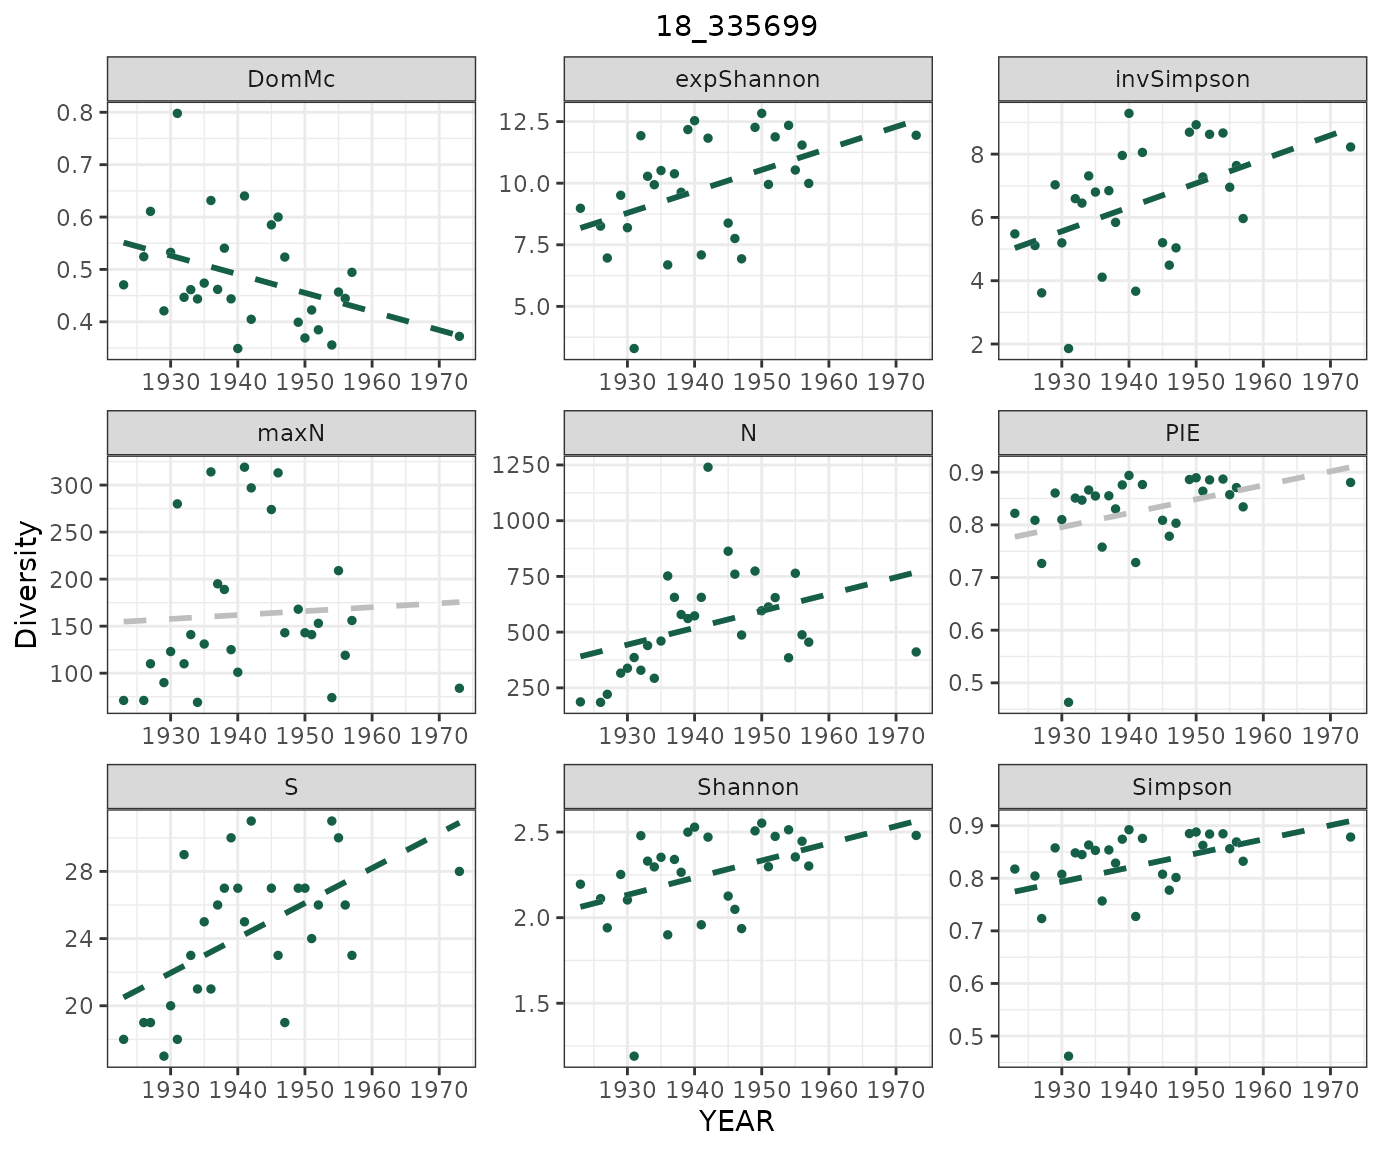
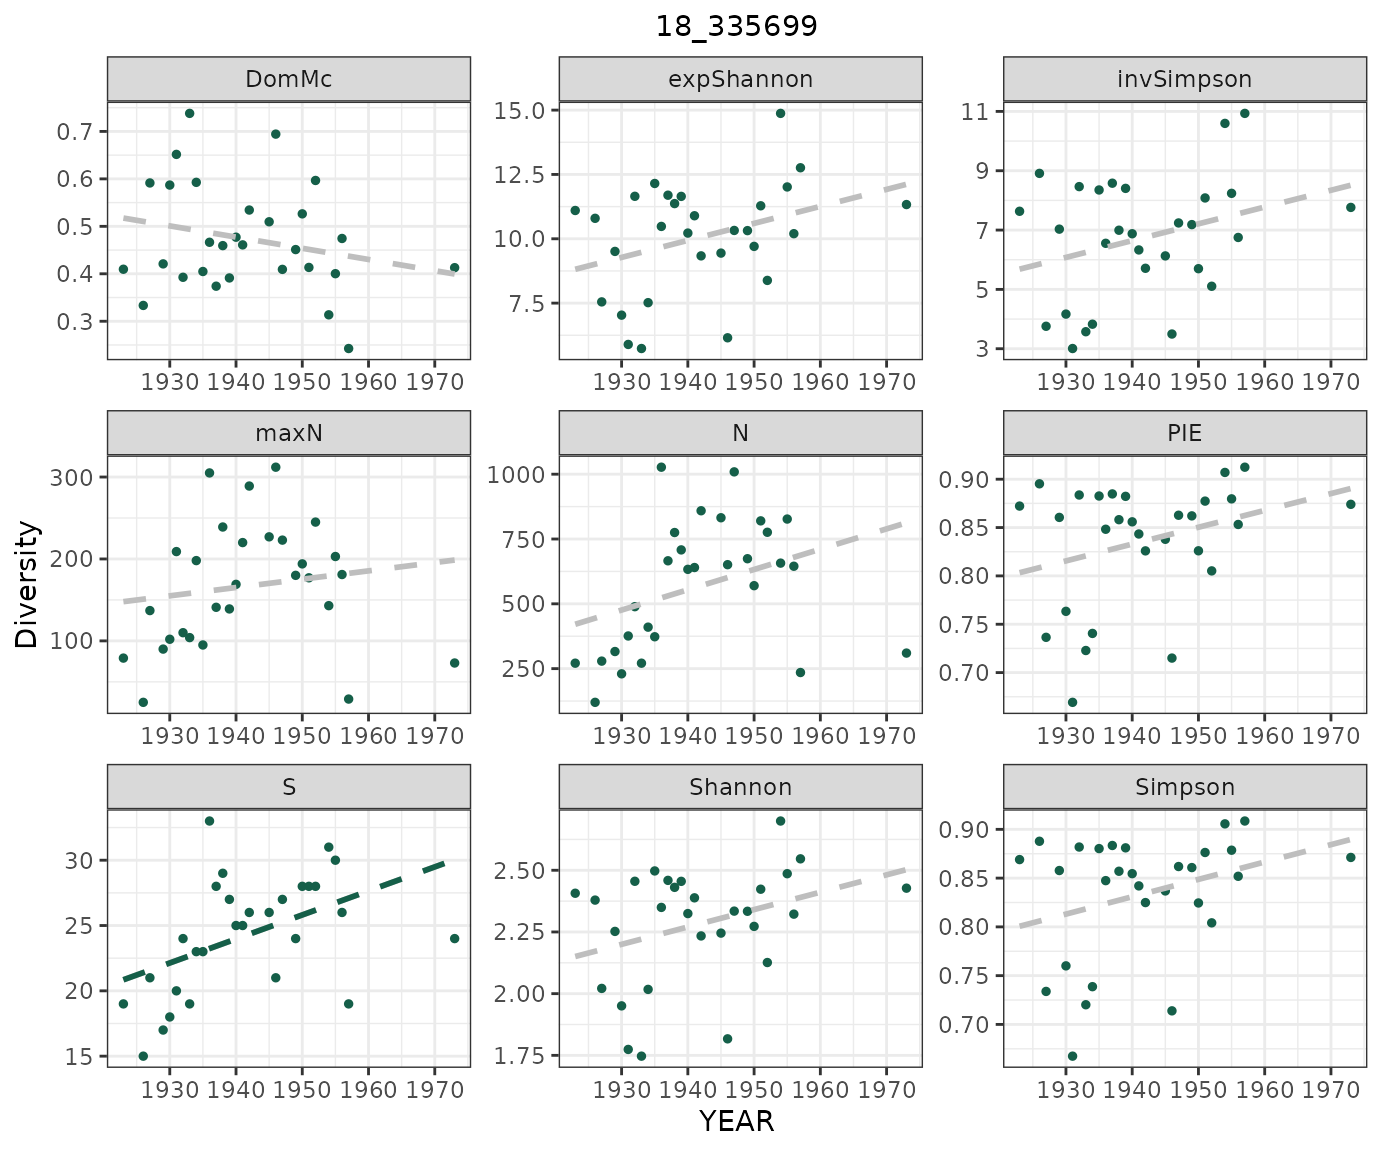
Deploying to gh-pages from @ bioTIMEHub/BioTIMEr@ac80a2e61b9976ca79e5f0366d3a1caad70f9963 🚀

diff --git a/articles/vignette1.html b/articles/vignette1.html
@@ -594,8 +594,8 @@ subsequent sensitivity analysis:</p>
 <td align="right">10</td>
 <td align="left">10_359170</td>
 <td align="right">2</td>
-<td align="right">55</td>
-<td align="right">23</td>
+<td align="right">56</td>
+<td align="right">24</td>
 <td align="right">3</td>
 </tr>
 <tr class="odd">
@@ -603,31 +603,31 @@ subsequent sensitivity analysis:</p>
 <td align="left">10_359170</td>
 <td align="right">3</td>
 <td align="right">58</td>
-<td align="right">24</td>
+<td align="right">23</td>
 <td align="right">3</td>
 </tr>
 <tr class="even">
 <td align="right">18</td>
 <td align="left">18_335699</td>
 <td align="right">1</td>
-<td align="right">732</td>
-<td align="right">74</td>
+<td align="right">662</td>
+<td align="right">69</td>
 <td align="right">29</td>
 </tr>
 <tr class="odd">
 <td align="right">18</td>
 <td align="left">18_335699</td>
 <td align="right">2</td>
-<td align="right">691</td>
-<td align="right">74</td>
+<td align="right">695</td>
+<td align="right">73</td>
 <td align="right">29</td>
 </tr>
 <tr class="even">
 <td align="right">18</td>
 <td align="left">18_335699</td>
 <td align="right">3</td>
-<td align="right">700</td>
-<td align="right">76</td>
+<td align="right">717</td>
+<td align="right">74</td>
 <td align="right">29</td>
 </tr>
 <tr class="odd">
@@ -726,80 +726,80 @@ Lets apply it to our now processed BioTIME example dataset:</p>
 <tr class="odd">
 <td align="left">10_359170</td>
 <td align="right">1984</td>
-<td align="right">21</td>
-<td align="right">2903</td>
-<td align="right">1676</td>
-<td align="right">1.454011</td>
-<td align="right">0.6256863</td>
-<td align="right">2.671556</td>
-<td align="right">0.6259019</td>
-<td align="right">0.7113331</td>
-<td align="right">4.280247</td>
+<td align="right">20</td>
+<td align="right">3092</td>
+<td align="right">1803</td>
+<td align="right">1.467048</td>
+<td align="right">0.6222179</td>
+<td align="right">2.647029</td>
+<td align="right">0.6224192</td>
+<td align="right">0.7176585</td>
+<td align="right">4.336416</td>
 </tr>
 <tr class="even">
 <td align="left">10_359170</td>
 <td align="right">1992</td>
-<td align="right">18</td>
-<td align="right">1394</td>
-<td align="right">636</td>
-<td align="right">1.744873</td>
-<td align="right">0.7321571</td>
-<td align="right">3.733532</td>
-<td align="right">0.7326827</td>
-<td align="right">0.6291248</td>
-<td align="right">5.725177</td>
+<td align="right">20</td>
+<td align="right">1525</td>
+<td align="right">587</td>
+<td align="right">1.798964</td>
+<td align="right">0.7615407</td>
+<td align="right">4.193587</td>
+<td align="right">0.7620404</td>
+<td align="right">0.6216393</td>
+<td align="right">6.043385</td>
 </tr>
 <tr class="odd">
 <td align="left">10_359170</td>
 <td align="right">1996</td>
-<td align="right">20</td>
-<td align="right">1560</td>
-<td align="right">819</td>
-<td align="right">1.672919</td>
-<td align="right">0.6842332</td>
-<td align="right">3.166894</td>
-<td align="right">0.6846721</td>
-<td align="right">0.6692308</td>
-<td align="right">5.327697</td>
+<td align="right">18</td>
+<td align="right">1557</td>
+<td align="right">841</td>
+<td align="right">1.606444</td>
+<td align="right">0.6701836</td>
+<td align="right">3.031990</td>
+<td align="right">0.6706143</td>
+<td align="right">0.6628131</td>
+<td align="right">4.985053</td>
 </tr>
 <tr class="even">
 <td align="left">18_335699</td>
-<td align="right">1945</td>
-<td align="right">27</td>
-<td align="right">863</td>
-<td align="right">274</td>
-<td align="right">2.125950</td>
-<td align="right">0.8077216</td>
-<td align="right">5.200792</td>
-<td align="right">0.8086586</td>
-<td align="right">0.5851680</td>
-<td align="right">8.380852</td>
+<td align="right">1932</td>
+<td align="right">24</td>
+<td align="right">489</td>
+<td align="right">110</td>
+<td align="right">2.455362</td>
+<td align="right">0.8818632</td>
+<td align="right">8.464760</td>
+<td align="right">0.8836703</td>
+<td align="right">0.3926380</td>
+<td align="right">11.650652</td>
 </tr>
 <tr class="odd">
 <td align="left">18_335699</td>
-<td align="right">1932</td>
-<td align="right">29</td>
-<td align="right">329</td>
-<td align="right">110</td>
-<td align="right">2.478846</td>
-<td align="right">0.8483292</td>
-<td align="right">6.593227</td>
-<td align="right">0.8509156</td>
-<td align="right">0.4468085</td>
-<td align="right">11.927498</td>
+<td align="right">1933</td>
+<td align="right">19</td>
+<td align="right">271</td>
+<td align="right">104</td>
+<td align="right">1.746735</td>
+<td align="right">0.7201699</td>
+<td align="right">3.573597</td>
+<td align="right">0.7228372</td>
+<td align="right">0.7380074</td>
+<td align="right">5.735846</td>
 </tr>
 <tr class="even">
 <td align="left">18_335699</td>
-<td align="right">1933</td>
-<td align="right">23</td>
-<td align="right">440</td>
+<td align="right">1937</td>
+<td align="right">28</td>
+<td align="right">666</td>
 <td align="right">141</td>
-<td align="right">2.330245</td>
-<td align="right">0.8450103</td>
-<td align="right">6.452043</td>
-<td align="right">0.8469352</td>
-<td align="right">0.4613636</td>
-<td align="right">10.280459</td>
+<td align="right">2.459054</td>
+<td align="right">0.8834510</td>
+<td align="right">8.580084</td>
+<td align="right">0.8847795</td>
+<td align="right">0.3738739</td>
+<td align="right">11.693739</td>
 </tr>
 </tbody>
 </table>
@@ -822,44 +822,44 @@ Lets apply it to our now processed BioTIME example dataset:</p>
 <tr class="odd">
 <td align="right">1984</td>
 <td align="left">10_359170</td>
-<td align="right">0.2272727</td>
-<td align="right">0.0310428</td>
-<td align="right">0.3716546</td>
+<td align="right">0.1818182</td>
+<td align="right">0.0915172</td>
+<td align="right">0.3571583</td>
 </tr>
 <tr class="even">
 <td align="right">1992</td>
 <td align="left">10_359170</td>
-<td align="right">0.3600000</td>
-<td align="right">0.0134105</td>
-<td align="right">0.3618642</td>
+<td align="right">0.4166667</td>
+<td align="right">0.0093877</td>
+<td align="right">0.3830931</td>
 </tr>
 <tr class="odd">
 <td align="right">1996</td>
 <td align="left">10_359170</td>
-<td align="right">0.2727273</td>
-<td align="right">0.0244299</td>
-<td align="right">0.1618145</td>
+<td align="right">0.3478261</td>
+<td align="right">0.0881165</td>
+<td align="right">0.2602206</td>
 </tr>
 <tr class="even">
-<td align="right">1945</td>
-<td align="left">18_335699</td>
-<td align="right">0.6341463</td>
-<td align="right">0.6506529</td>
-<td align="right">0.8087248</td>
-</tr>
-<tr class="odd">
 <td align="right">1932</td>
 <td align="left">18_335699</td>
-<td align="right">0.5294118</td>
-<td align="right">0.2955655</td>
-<td align="right">0.5118956</td>
+<td align="right">0.5666667</td>
+<td align="right">0.5328621</td>
+<td align="right">0.6210526</td>
 </tr>
-<tr class="even">
+<tr class="odd">
 <td align="right">1933</td>
 <td align="left">18_335699</td>
-<td align="right">0.6052632</td>
-<td align="right">0.3784197</td>
-<td align="right">0.5431205</td>
+<td align="right">0.5555556</td>
+<td align="right">0.1198606</td>
+<td align="right">0.3506494</td>
+</tr>
+<tr class="even">
+<td align="right">1937</td>
+<td align="left">18_335699</td>
+<td align="right">0.3225806</td>
+<td align="right">0.4604323</td>
+<td align="right">0.5462185</td>
 </tr>
 </tbody>
 </table>
@@ -943,48 +943,48 @@ use depends on your research question.</p>
 <tbody>
 <tr class="odd">
 <td align="left">DomMc</td>
-<td align="right">29</td>
-<td align="right">-0.0035896</td>
+<td align="right">27</td>
+<td align="right">-0.0036474</td>
 </tr>
 <tr class="even">
 <td align="left">N</td>
-<td align="right">35</td>
-<td align="right">-193.6536639</td>
+<td align="right">27</td>
+<td align="right">-134.8767289</td>
 </tr>
 <tr class="odd">
 <td align="left">PIE</td>
 <td align="right">34</td>
-<td align="right">0.0113134</td>
+<td align="right">0.0099568</td>
 </tr>
 <tr class="even">
 <td align="left">S</td>
-<td align="right">25</td>
-<td align="right">-0.3304028</td>
+<td align="right">23</td>
+<td align="right">-0.2091922</td>
 </tr>
 <tr class="odd">
 <td align="left">Shannon</td>
-<td align="right">45</td>
-<td align="right">0.0149212</td>
+<td align="right">39</td>
+<td align="right">0.0122976</td>
 </tr>
 <tr class="even">
 <td align="left">Simpson</td>
-<td align="right">36</td>
-<td align="right">0.0108112</td>
+<td align="right">34</td>
+<td align="right">0.0094288</td>
 </tr>
 <tr class="odd">
 <td align="left">expShannon</td>
-<td align="right">45</td>
-<td align="right">0.0800434</td>
+<td align="right">40</td>
+<td align="right">0.0250011</td>
 </tr>
 <tr class="even">
 <td align="left">invSimpson</td>
-<td align="right">34</td>
-<td align="right">0.1218169</td>
+<td align="right">28</td>
+<td align="right">0.0152532</td>
 </tr>
 <tr class="odd">
 <td align="left">maxN</td>
-<td align="right">32</td>
-<td align="right">-155.2310526</td>
+<td align="right">27</td>
+<td align="right">-88.9267100</td>
 </tr>
 </tbody>
 </table>

diff --git a/reference/gridding.html b/reference/gridding.html
@@ -131,10 +131,10 @@ best <code>res</code> based on the average study extent.</p>
 
     <div id="ref-examples">
     <h2>Examples</h2>
-    <div class="sourceCode"><pre class="sourceCode r"><code><span class="r-in"><span><span class="kw">if</span> <span class="op">(</span><span class="cn">FALSE</span><span class="op">)</span> <span class="op">{</span></span></span>
-<span class="r-in"><span>  <span class="kw"><a href="https://rdrr.io/r/base/library.html" class="external-link">library</a></span><span class="op">(</span><span class="va"><a href="https://github.com/bioTIMEHub/BioTIMEr" class="external-link">BioTIMEr</a></span><span class="op">)</span></span></span>
-<span class="r-in"><span>  <span class="fu">gridding</span><span class="op">(</span><span class="va">subBTmeta</span>, <span class="va">subBTquery</span><span class="op">)</span></span></span>
-<span class="r-in"><span><span class="op">}</span></span></span>
+    <div class="sourceCode"><pre class="sourceCode r"><code><span class="r-in"><span>  <span class="kw"><a href="https://rdrr.io/r/base/library.html" class="external-link">library</a></span><span class="op">(</span><span class="va"><a href="https://github.com/bioTIMEHub/BioTIMEr" class="external-link">BioTIMEr</a></span><span class="op">)</span></span></span>
+<span class="r-in"><span>  <span class="va">gridded_data</span> <span class="op">&lt;-</span> <span class="fu">gridding</span><span class="op">(</span><span class="va">subBTmeta</span>, <span class="va">subBTquery</span><span class="op">)</span></span></span>
+<span class="r-msg co"><span class="r-pr">#&gt;</span> OK: all SL studies have 1 grid cell</span>
+<span class="r-in"><span></span></span>
 </code></pre></div>
     </div>
   </div>

diff --git a/reference/getBeta.html b/reference/getBeta.html
@@ -69,12 +69,12 @@
     <div id="arguments">
     <h2>Arguments</h2>
     <dl><dt>x</dt>
-<dd><p>(<code>data.frame</code>) First column has to contain year values and following
-columns contain species abundances</p></dd>
+<dd><p>(<code>data.frame</code>) First column has to be year and following columns
+contain species abundances.</p></dd>
 
 
 <dt>id</dt>
-<dd><p>definition of id</p></dd>
+<dd><p>(<code>character</code>)One AssemblageID</p></dd>
 
 </dl></div>
     <div id="value">

diff --git a/news/index.html b/news/index.html
@@ -58,7 +58,7 @@
     </div>
 
     <div class="section level2">
-<h2 class="page-header" data-toc-text="0.1.9002" id="biotimer-019002">BioTIMEr 0.1.9002<a class="anchor" aria-label="anchor" href="#biotimer-019002"></a></h2>
+<h2 class="page-header" data-toc-text="0.2.0" id="biotimer-020">BioTIMEr 0.2.0<a class="anchor" aria-label="anchor" href="#biotimer-020"></a></h2>
 <ul><li>Initial CRAN submission.</li>
 </ul></div>
   </div>

diff --git a/reference/getAlpha.html b/reference/getAlpha.html
@@ -69,12 +69,12 @@
     <div id="arguments">
     <h2>Arguments</h2>
     <dl><dt>x</dt>
-<dd><p>(data.frame) First column has to be year and following columns
+<dd><p>(<code>data.frame</code>) First column has to be year and following columns
 contain species abundances.</p></dd>
 
 
 <dt>id</dt>
-<dd><p>definition of id</p></dd>
+<dd><p>(<code>character</code>)One AssemblageID</p></dd>
 
 </dl></div>
     <div id="value">
